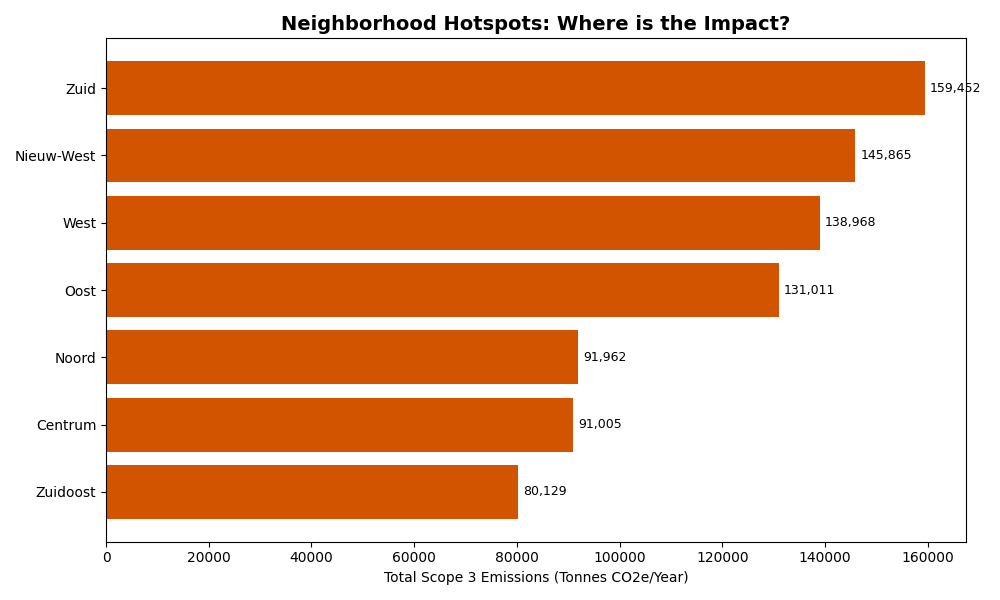
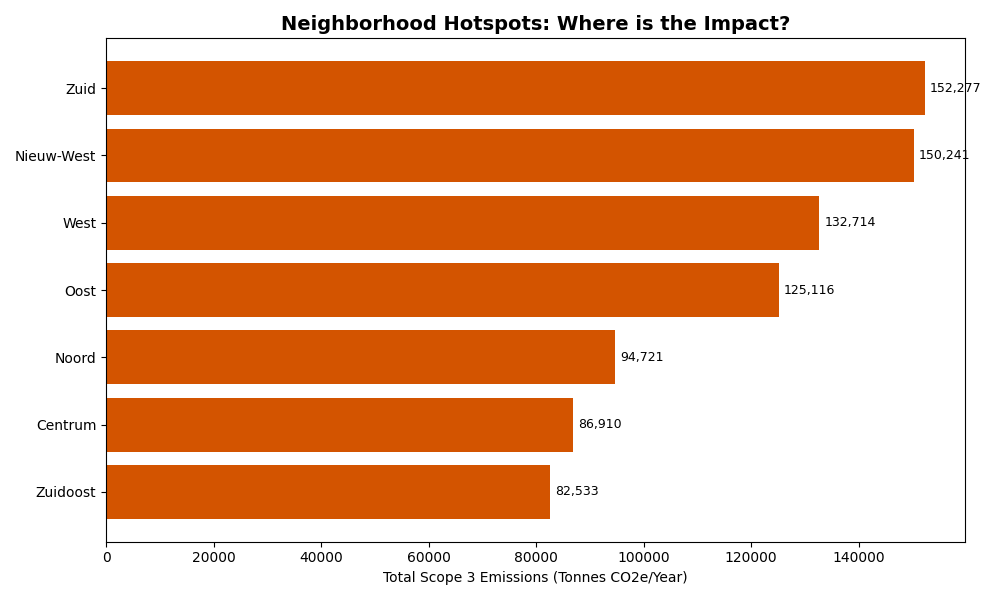
feat: Enhance Master Hybrid Amsterdam Model with education-based behavioral modifiers and comprehensive visualizations

diff --git a/MasterHybridModel.py b/MasterHybridModel.py
@@ -176,20 +176,29 @@ def load_neighborhood_data():
     Load Amsterdam neighborhood socio-economic data.
     
     Data simulates CBS 'Kerncijfers wijken en buurten' statistics.
-    Income differences drive consumption scaling via Valencia beta factors:
-    - Higher income areas (Zuid, Centrum) have higher consumption volumes
-    - Lower income areas consume closer to national average
+    
+    TWO BEHAVIORAL DRIVERS:
+    1. Income effect: Higher income → higher total food consumption volume
+    2. Education effect: Higher education → plant-based preference (lower meat, higher plant protein)
+    
+    These are INDEPENDENT and MULTIPLICATIVE:
+    - Wealthy, educated (Zuid, Centrum): High volume × Low meat = Moderate meat total
+    - Lower-income (Zuidoost): Low volume × High meat = Lower meat absolute
+    
+    Monitor finding: High education (52% plant) vs Low education (39% plant)
     
     Returns:
         pd.DataFrame: Neighborhood data with columns:
             - Neighborhood: District name
             - Population: Resident count
             - Avg_Income: Average household income (EUR/year)
+            - High_Education_Pct: Fraction with bachelor degree or higher
     """
     return pd.DataFrame({
         'Neighborhood': ['Centrum', 'Zuid', 'West', 'Noord', 'Zuidoost', 'Nieuw-West', 'Oost'],
         'Population': [87000, 145000, 145000, 99000, 89000, 160000, 135000],
-        'Avg_Income': [48000, 56000, 34000, 29000, 24000, 26000, 36000] # Euros/year
+        'Avg_Income': [48000, 56000, 34000, 29000, 24000, 26000, 36000], # Euros/year
+        'High_Education_Pct': [0.65, 0.70, 0.60, 0.40, 0.30, 0.35, 0.55] # From Monitor insights
     })
 
 # ==========================================
@@ -220,25 +229,41 @@ class Scope3Engine:
         self.factors = load_impact_factors()
 
     # --- 3A. Beta Factor Logic (The "Hybrid" part) ---
-    def calculate_beta(self, local_income):
+    def calculate_beta(self, row):
         """ 
-        Calculate consumption scaling factor using Valencia downscaling.
+        Calculate composite consumption scaling factors with dual behavioral drivers.
         
-        Higher income neighborhoods consume more total food volume and
-        have higher waste rates. Uses exponential scaling relationship:
-        Beta = C1 * exp(C2 * income_ratio)
+        The Amsterdam Monitor revealed that:
+        1. Higher income = MORE total food volume (wealthier people waste more)
+        2. Higher education = LESS meat proportion (behavioral preference)
+        
+        These effects are INDEPENDENT and MULTIPLICATIVE:
+        - A wealthy, educated person (Zuid) = High volume × Low meat = Moderate meat total
+        - A lower-income person (Zuidoost) = Lower volume × High meat = Moderate meat total
         
         Args:
-            local_income (float): Average neighborhood income (EUR/year)
+            row (pd.Series): Neighborhood data row with Avg_Income and High_Education_Pct
             
         Returns:
-            float: Beta scaling factor (>1 for high income, <1 for low income)
-                   Floor of 0.75 prevents unrealistic low consumption estimates
+            tuple: (volume_beta, meat_modifier, plant_modifier)
+                - volume_beta: Overall consumption scaling (0.8 to 1.2)
+                - meat_modifier: Meat consumption adjustment (0.85 or 1.1)
+                - plant_modifier: Plant consumption adjustment (1.15 or 0.9)
         """
-        income_ratio = local_income / self.cfg.NATIONAL_AVG_INCOME
-        # Valencia Formula: Beta = C1 * e^(C2 * ratio)
-        beta = self.cfg.SCALING_C1 * np.exp(self.cfg.SCALING_C2 * income_ratio)
-        return max(beta, 0.75) # Floor to prevent starvation modeling
+        # 1. Volume Effect: Wealthier neighborhoods consume more total food
+        income_ratio = row['Avg_Income'] / self.cfg.NATIONAL_AVG_INCOME
+        volume_beta = self.cfg.SCALING_C1 * np.exp(self.cfg.SCALING_C2 * income_ratio)
+        
+        # 2. Education Effect: Higher education correlates with plant-based preference
+        # Monitor data: 52% plant (high edu) vs 39% plant (low edu)
+        if row['High_Education_Pct'] > 0.5:
+            meat_modifier = 0.85   # Eat 15% less meat than average
+            plant_modifier = 1.15  # Eat 15% more plant foods than average
+        else:
+            meat_modifier = 1.1    # Eat 10% more meat than average
+            plant_modifier = 0.9   # Eat 10% less plant foods than average
+            
+        return volume_beta, meat_modifier, plant_modifier
 
     # --- 3B. Standard Impact Calculation (Per Capita Per Day) ---
     def calculate_raw_impact(self, diet_profile):
@@ -307,16 +332,19 @@ class Scope3Engine:
         """
         Runs the model per neighborhood, scaling consumption by Beta.
         Returns DataFrame with 'Total_CO2_Tonnes' per neighborhood.
+        
+        NEW: Applies both volume_beta (income effect) and education modifiers
+        (meat_modifier, plant_modifier) to neighborhood-specific consumption.
         """
         results = []
         base_impact = self.calculate_raw_impact(diet_profile) # Per capita impact of base diet
         
         for _, row in neighborhoods.iterrows():
-            beta = self.calculate_beta(row['Avg_Income'])
+            vol_beta, meat_mod, plant_mod = self.calculate_beta(row)
             
-            # Apply Beta to the impact (Assuming impact scales with expenditure/volume)
-            # In a full model, we'd scale only luxury foods, but scaling total is a valid proxy
-            local_co2_per_capita = base_impact['co2'] * beta 
+            # Weighted scaling: 40% meat modifier, 10% plant modifier, 50% neutral (dairy/other)
+            local_scaling = (0.4 * meat_mod + 0.1 * plant_mod + 0.5 * 1.0) * vol_beta
+            local_co2_per_capita = base_impact['co2'] * local_scaling
             
             # Total Neighborhood Tonnage
             total_tonnes = (local_co2_per_capita * 365 * row['Population']) / 1000
@@ -325,7 +353,10 @@ class Scope3Engine:
                 'Neighborhood': row['Neighborhood'],
                 'Population': row['Population'],
                 'Income': row['Avg_Income'],
-                'Beta': beta,
+                'Education_Pct': row['High_Education_Pct'],
+                'Vol_Beta': vol_beta,
+                'Meat_Modifier': meat_mod,
+                'Plant_Modifier': plant_mod,
                 'Per_Capita_Daily_CO2': local_co2_per_capita,
                 'Total_CO2_Tonnes': total_tonnes
             })
@@ -619,8 +650,8 @@ def run_full_analysis():
     print("="*90)
     
     # Hotspot Report
-    print("\n--- NEIGHBORHOOD HOTSPOT ANALYSIS (BASELINE) ---")
-    print(df_spatial[['Neighborhood', 'Population', 'Beta', 'Total_CO2_Tonnes']].sort_values('Total_CO2_Tonnes', ascending=False).to_string(index=False))
+    print("\n--- NEIGHBORHOOD HOTSPOT ANALYSIS (BASELINE WITH EDUCATION MODIFIERS) ---")
+    print(df_spatial[['Neighborhood', 'Population', 'Education_Pct', 'Meat_Modifier', 'Total_CO2_Tonnes']].sort_values('Total_CO2_Tonnes', ascending=False).to_string(index=False))
 
 if __name__ == "__main__":
     run_full_analysis()
